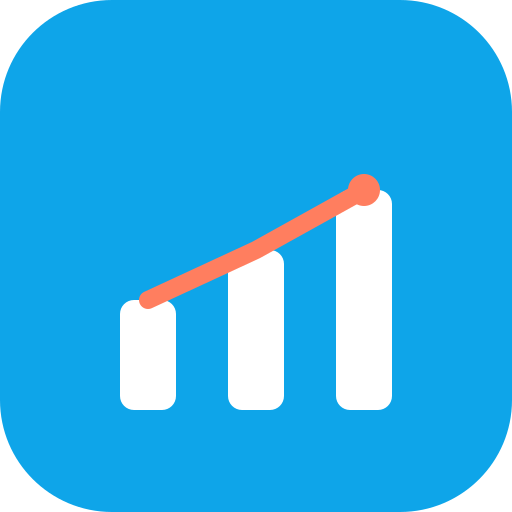
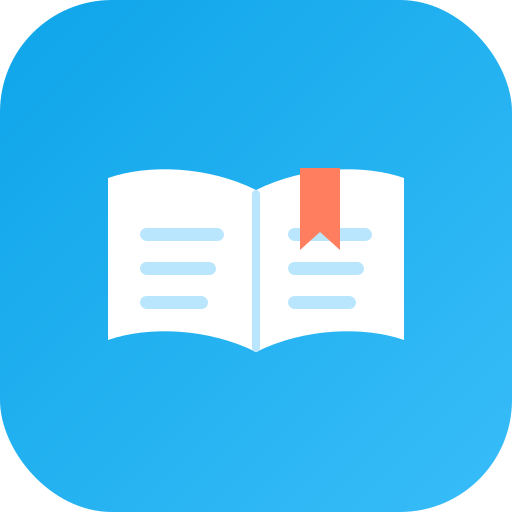
アイコンを勉強テーマ（本）に刷新＋目標達成カード削除＋ズーム無効化
- アプリアイコン(PWA/favicon/apple-touch)を開いた本＋しおりのデザインに一新
  ロゴ絵文字も📈→📖に統一（Login は既に📘）
- ホームのサマリーから「目標達成」カードを削除し2カラムに
- 画面ズームを無効化: viewport に maximum-scale/user-scalable=no、
  body に touch-action: manipulation（ダブルタップ拡大も抑止）

Claude-Session: https://claude.ai/code/session_013GU4rMuG1QW5DafeC7ySHy

diff --git a/src/components/Dashboard.tsx b/src/components/Dashboard.tsx
@@ -98,12 +98,6 @@ export default function Dashboard() {
     target: r.targetScore != null ? pct(r.targetScore, r.maxScore) : null,
   }));
 
-  // サマリー指標（実データから算出）
-  const latest = subjectResults[subjectResults.length - 1];
-  const latestPct = latest ? pct(latest.score, latest.maxScore) : null;
-  const targetPct = latest?.targetScore != null ? pct(latest.targetScore, latest.maxScore) : null;
-  const achieve = latestPct != null && targetPct != null ? Math.round((latestPct / targetPct) * 100) : null;
-
   // 連続記録＆バッジ
   const streak = useMemo(() => calcStreak(studyLogs), [studyLogs]);
   const badges = useMemo(() => calcBadges(studyLogs, assignments), [studyLogs, assignments]);
@@ -130,7 +124,7 @@ export default function Dashboard() {
 
       <main className="mx-auto -mt-5 max-w-md space-y-4 px-4 pb-36">
         {/* サマリーカード */}
-        <section className="grid grid-cols-3 gap-3">
+        <section className="grid grid-cols-2 gap-3">
           <StatCard label="今週の勉強" value={weekHours} unit="h" tone="main" />
           <StatCard
             label="次の提出物"
@@ -139,12 +133,6 @@ export default function Dashboard() {
             }
             unit={nextDueDays != null && nextDueDays > 0 ? '日後' : ''}
             tone="accent"
-          />
-          <StatCard
-            label="目標達成"
-            value={achieve != null ? String(Math.min(achieve, 999)) : '—'}
-            unit={achieve != null ? '%' : ''}
-            tone="success"
           />
         </section>
 

diff --git a/src/components/Onboarding.tsx b/src/components/Onboarding.tsx
@@ -42,7 +42,7 @@ export default function Onboarding() {
         {/* ロゴ */}
         <div className="mb-6 text-center">
           <div className="mx-auto mb-2 grid h-16 w-16 place-items-center rounded-card bg-gradient-to-br from-main to-sky-400 text-3xl shadow-card">
-            📈
+            📖
           </div>
           <h1 className="font-display text-2xl font-extrabold text-main">ようこそ UPUP へ</h1>
           <p className="mt-1 text-sm text-slate-500">まずは2ステップで初期設定をしましょう</p>

diff --git a/index.html b/index.html
@@ -2,7 +2,10 @@
 <html lang="ja">
   <head>
     <meta charset="UTF-8" />
-    <meta name="viewport" content="width=device-width, initial-scale=1.0, viewport-fit=cover" />
+    <meta
+      name="viewport"
+      content="width=device-width, initial-scale=1.0, maximum-scale=1.0, user-scalable=no, viewport-fit=cover"
+    />
     <meta name="theme-color" content="#0EA5E9" />
     <link rel="icon" href="/favicon.svg" type="image/svg+xml" />
     <link rel="apple-touch-icon" href="/apple-touch-icon.png" />

diff --git a/src/App.tsx b/src/App.tsx
@@ -29,7 +29,7 @@ function Loading() {
     <div className="grid min-h-screen place-items-center bg-base font-sans text-main">
       <div className="animate-pulse text-center">
         <div className="mx-auto mb-2 grid h-14 w-14 place-items-center rounded-card bg-gradient-to-br from-main to-sky-400 text-2xl shadow-card">
-          📈
+          📖
         </div>
         <p className="text-sm font-bold">読み込み中…</p>
       </div>

diff --git a/src/index.css b/src/index.css
@@ -8,6 +8,8 @@ html {
 
 body {
   margin: 0;
+  /* ダブルタップによる拡大を無効化（ピンチズームは viewport 側で抑止） */
+  touch-action: manipulation;
 }
 
 /* ダイヤル式ピッカーのスクロールバーを隠す */
